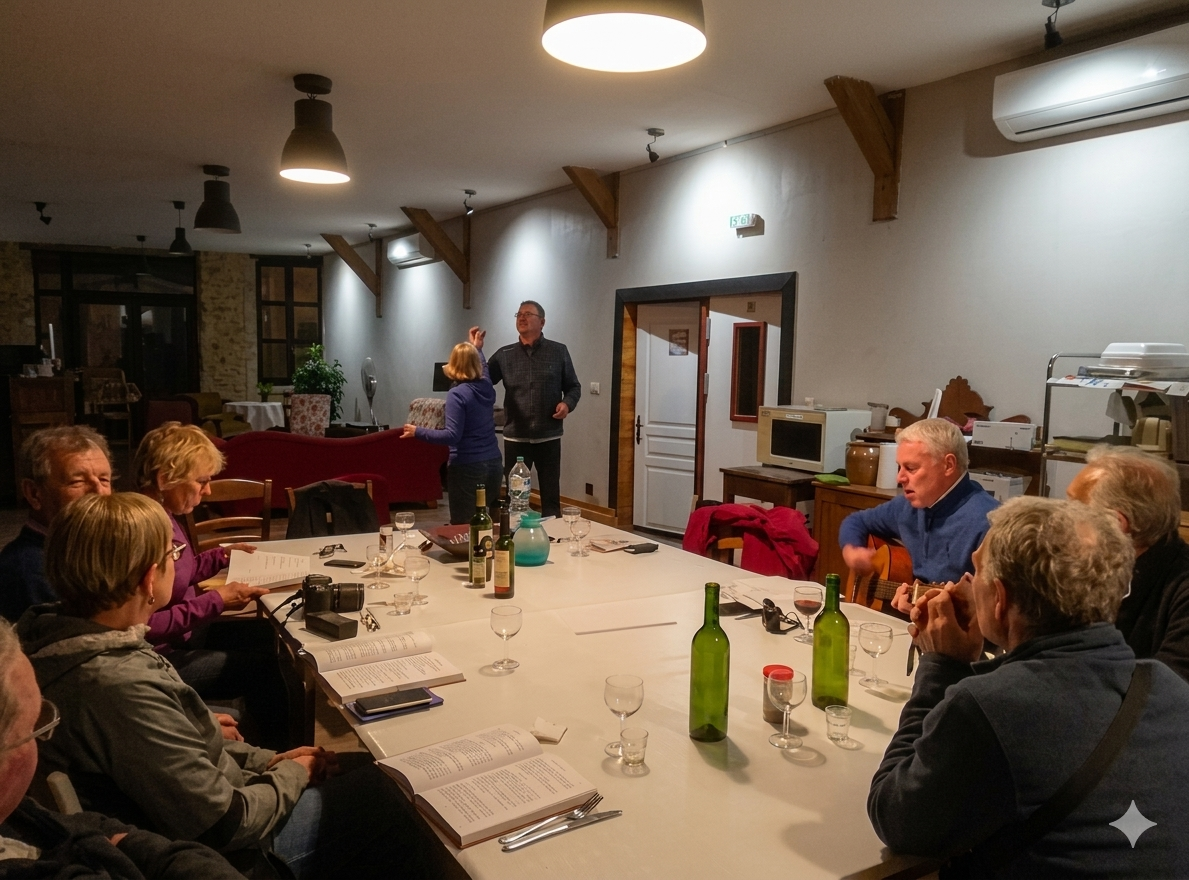
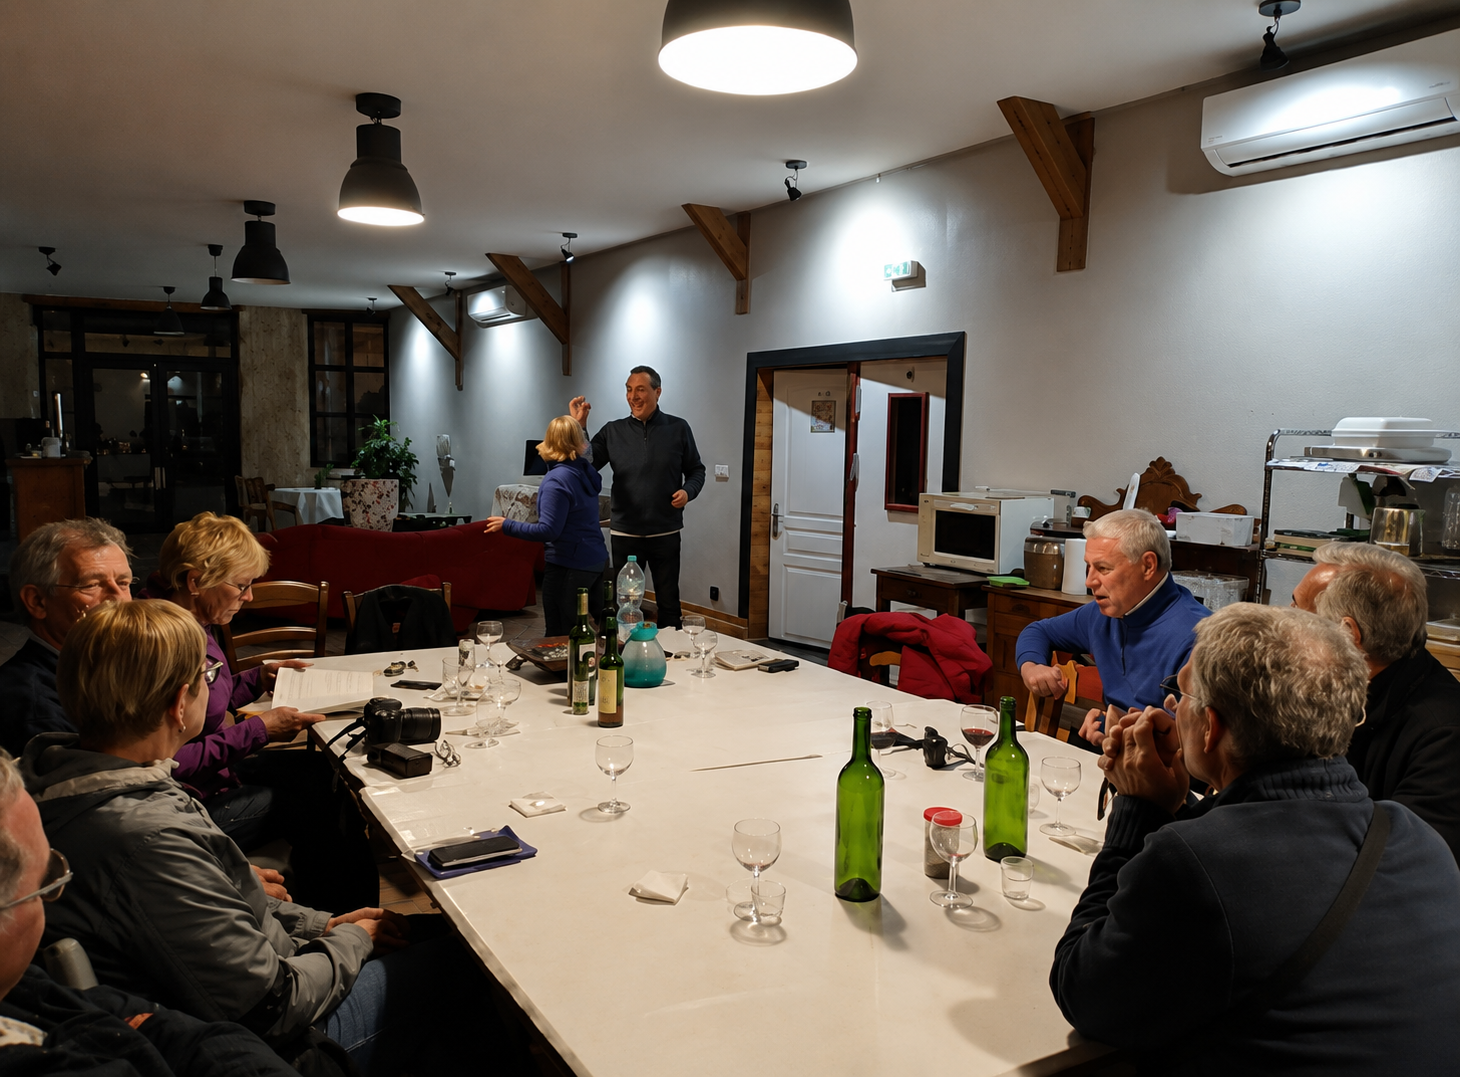
style(theme): apply palette extracted from hero building
Colors sourced directly from the hero image — roof (#c96a59 terracotta),
stone wall (#d5b492), and door (#464440) — with warm off-white derived from
the wall for backgrounds. Dark theme mirrors the same building after sunset.
Includes updated gallery images (pilgrims-1, pilgrims-4, pilgrims-7).

diff --git a/src/styles/theme.css b/src/styles/theme.css
@@ -1,23 +1,23 @@
-/* Light theme */
+/* Light theme — palette derived from the hero building: roof, stone wall, door */
 @plugin "daisyui/theme" {
   name: "lagrange";
   default: true;
   prefersdark: false;
   color-scheme: light;
 
-  --color-base-100: #faf9f7;
-  --color-base-200: #f0ece6;
-  --color-base-300: #e0d8d0;
-  --color-base-content: #1a1a1a;
+  --color-base-100: #f7ede0;
+  --color-base-200: #ecdcc8;
+  --color-base-300: #d5b492;
+  --color-base-content: #2e2b28;
 
-  --color-primary: oklch(52% 0.1 40);
-  --color-primary-content: #fff;
-  --color-secondary: oklch(45% 0.06 155);
-  --color-secondary-content: #fff;
-  --color-accent: oklch(70% 0.15 72);
-  --color-accent-content: #fff;
-  --color-neutral: #1a1a1a;
-  --color-neutral-content: #faf9f7;
+  --color-primary: #c96a59;
+  --color-primary-content: #f7ede0;
+  --color-secondary: #9a8070;
+  --color-secondary-content: #f7ede0;
+  --color-accent: #c96a59;
+  --color-accent-content: #f7ede0;
+  --color-neutral: #464440;
+  --color-neutral-content: #f7ede0;
   --color-info: oklch(70% 0.2 220);
   --color-info-content: oklch(98% 0.01 220);
   --color-success: oklch(65% 0.25 140);
@@ -37,26 +37,26 @@
   --noise: 0;
 }
 
-/* Dark theme — activated automatically by prefers-color-scheme: dark */
+/* Dark theme — same building after sunset: charcoal becomes the canvas */
 @plugin "daisyui/theme" {
   name: "lagrange-dark";
   default: false;
   prefersdark: true;
   color-scheme: dark;
 
-  --color-base-100: #111;
-  --color-base-200: #1a1a1a;
-  --color-base-300: #2a2a2a;
-  --color-base-content: #faf9f7;
+  --color-base-100: #1e1b18;
+  --color-base-200: #2a2724;
+  --color-base-300: #3a3532;
+  --color-base-content: #f0e6d8;
 
-  --color-primary: oklch(62% 0.1 40);
-  --color-primary-content: #fff;
-  --color-secondary: oklch(55% 0.06 155);
-  --color-secondary-content: #fff;
-  --color-accent: oklch(72% 0.15 72);
-  --color-accent-content: #fff;
-  --color-neutral: #faf9f7;
-  --color-neutral-content: #1a1a1a;
+  --color-primary: #d4796a;
+  --color-primary-content: #1e1b18;
+  --color-secondary: #b89a82;
+  --color-secondary-content: #1e1b18;
+  --color-accent: #d4796a;
+  --color-accent-content: #1e1b18;
+  --color-neutral: #f0e6d8;
+  --color-neutral-content: #1e1b18;
   --color-info: oklch(70% 0.2 220);
   --color-info-content: oklch(98% 0.01 220);
   --color-success: oklch(65% 0.25 140);

diff --git a/src/styles/global.css b/src/styles/global.css
@@ -21,11 +21,11 @@
 
 @theme {
   --font-sans: Georgia, "Times New Roman", serif;
-  --color-stone-50: #faf9f7;
-  --color-stone-100: #f0ece6;
-  --color-stone-400: #a39890;
-  --color-stone-500: #6b6560;
+  --color-stone-50: #f7ede0;
+  --color-stone-100: #ecdcc8;
+  --color-stone-400: #d5b492;
+  --color-stone-500: #9a8070;
   --color-stone-700: color-mix(in oklab, var(--color-stone-900) 40%, var(--color-stone-500));
   --color-stone-800: color-mix(in oklab, var(--color-stone-900) 60%, var(--color-stone-500));
-  --color-stone-900: #1a1a1a;
+  --color-stone-900: #2e2b28;
 }

diff --git a/src/content/gallery/index.md b/src/content/gallery/index.md
@@ -4,7 +4,7 @@ images:
     alt: Le refuge de Lagrange
   - src: ../../assets/refuge-2.jpg
     alt: Vue sur le refuge
-  - src: ../../assets/pilgrims-1.jpg
+  - src: ../../assets/pilgrims-1.png
     alt: Pèlerins sur le Chemin
   - src: ../../assets/pilgrims-2.jpg
     alt: Marcheurs en chemin
@@ -12,6 +12,8 @@ images:
     alt: Sur le Chemin de Saint-Jacques
   - src: ../../assets/pilgrims-4.png
     alt: Pèlerins à l'étape
+  - src: ../../assets/pilgrims-7.png
+    alt: Pèlerins à table
   - src: ../../assets/accommodations/cepage1.jpg
     alt: Chambre dans Les Cépages
   - src: ../../assets/accommodations/alambic1.jpg